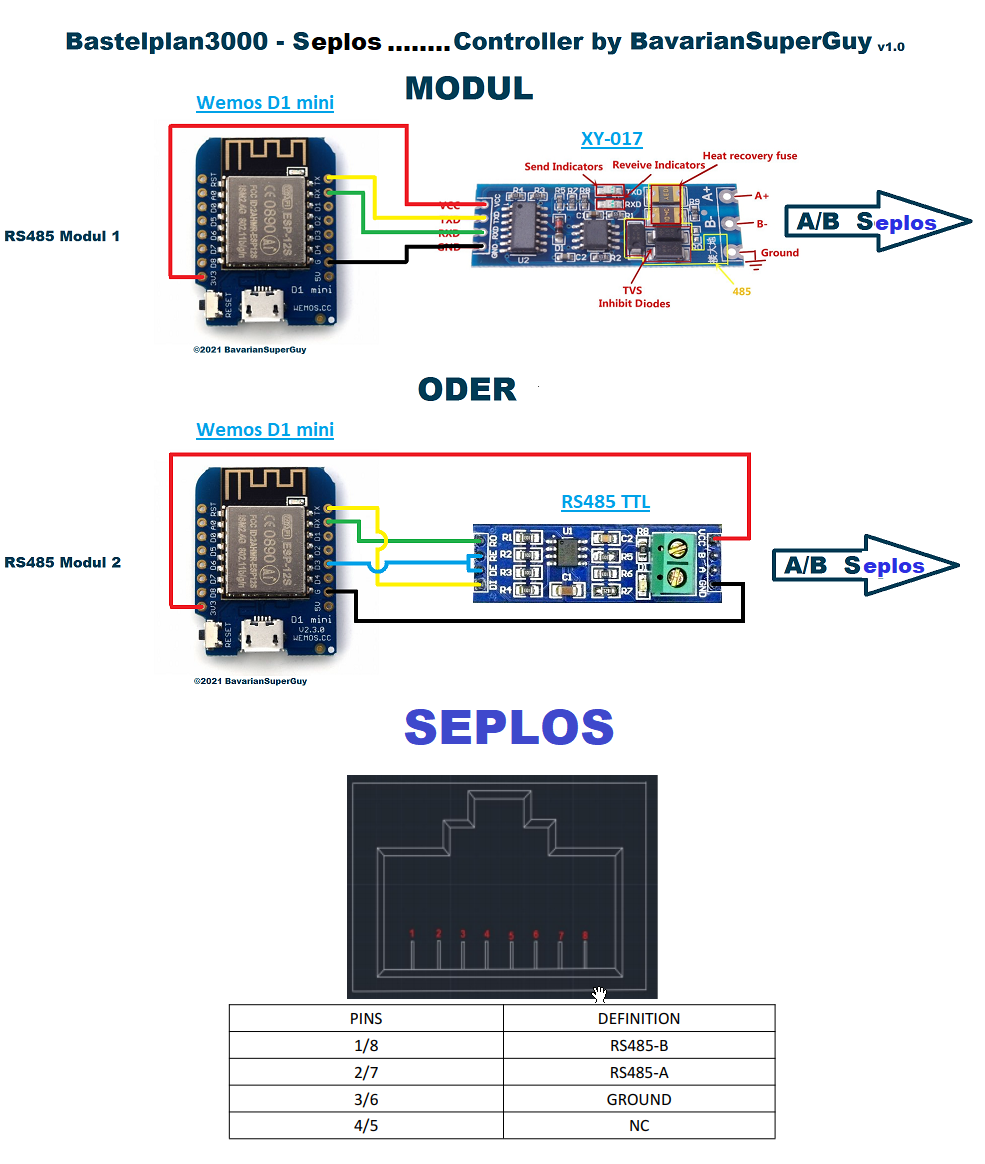
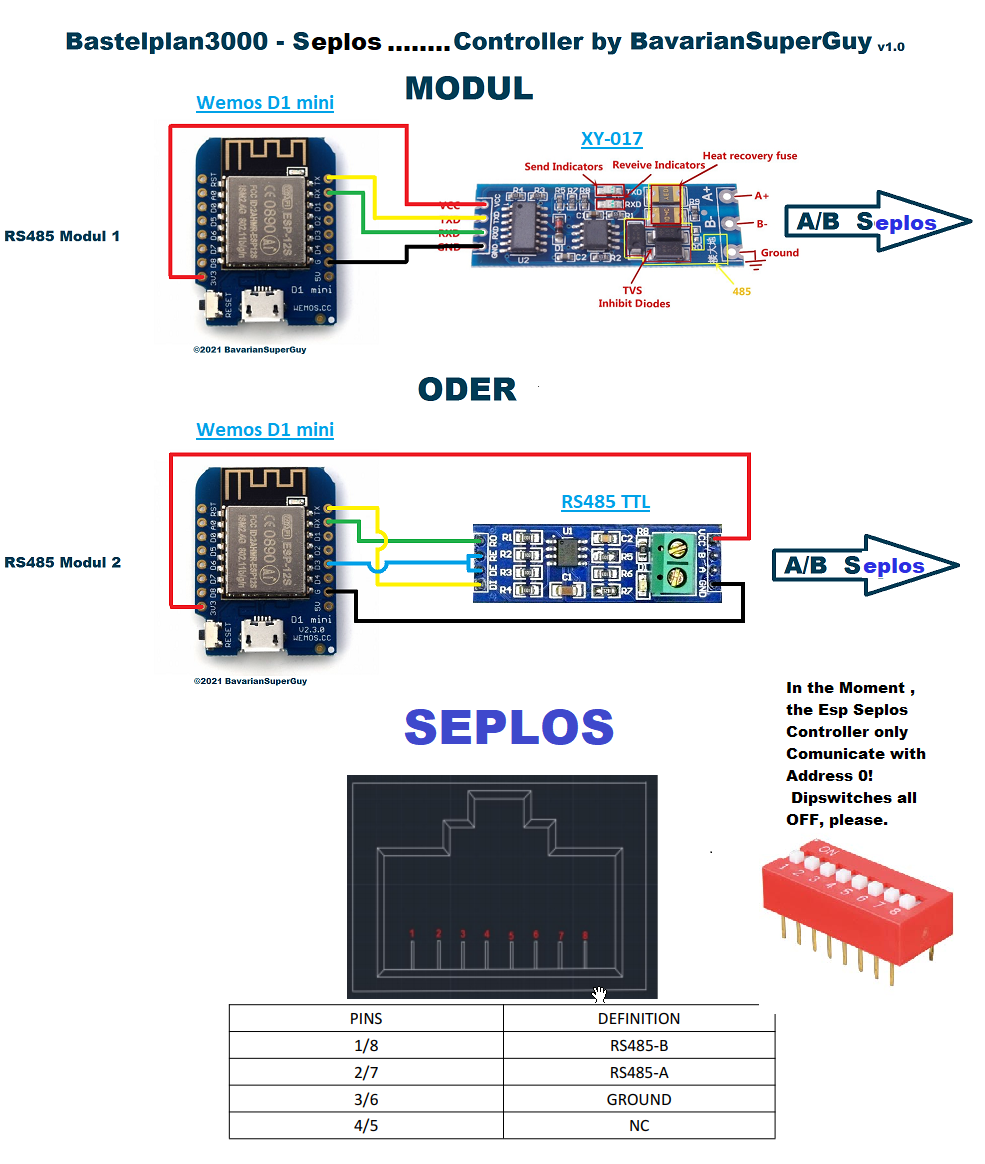
Dipswitsches off , Address 0

Changed region(s): [[0.7614, 0.5876, 0.9746, 0.8351]]

diff --git a/README.md b/README.md
@@ -66,6 +66,8 @@ Was kann der ESP8266 Seplos Controller :
 ...für diejenigen die's genau wissen wollen , serial1 am Esp ist der Dbug Serial und auf Gpio2(115200Baud)  am Esp zu finden, dort wird auch der vom BMS empfangene Frame ausgegeben
 
 als payload bei Mqtt für shutdown den wert true senden
+In the Moment , the Esp Seplos Controller only Comunicate with Address 0!
+ Dipswitches all OFF, please.
 
 
 RS485 ttl Adapter (2 verschiedene getestet)
